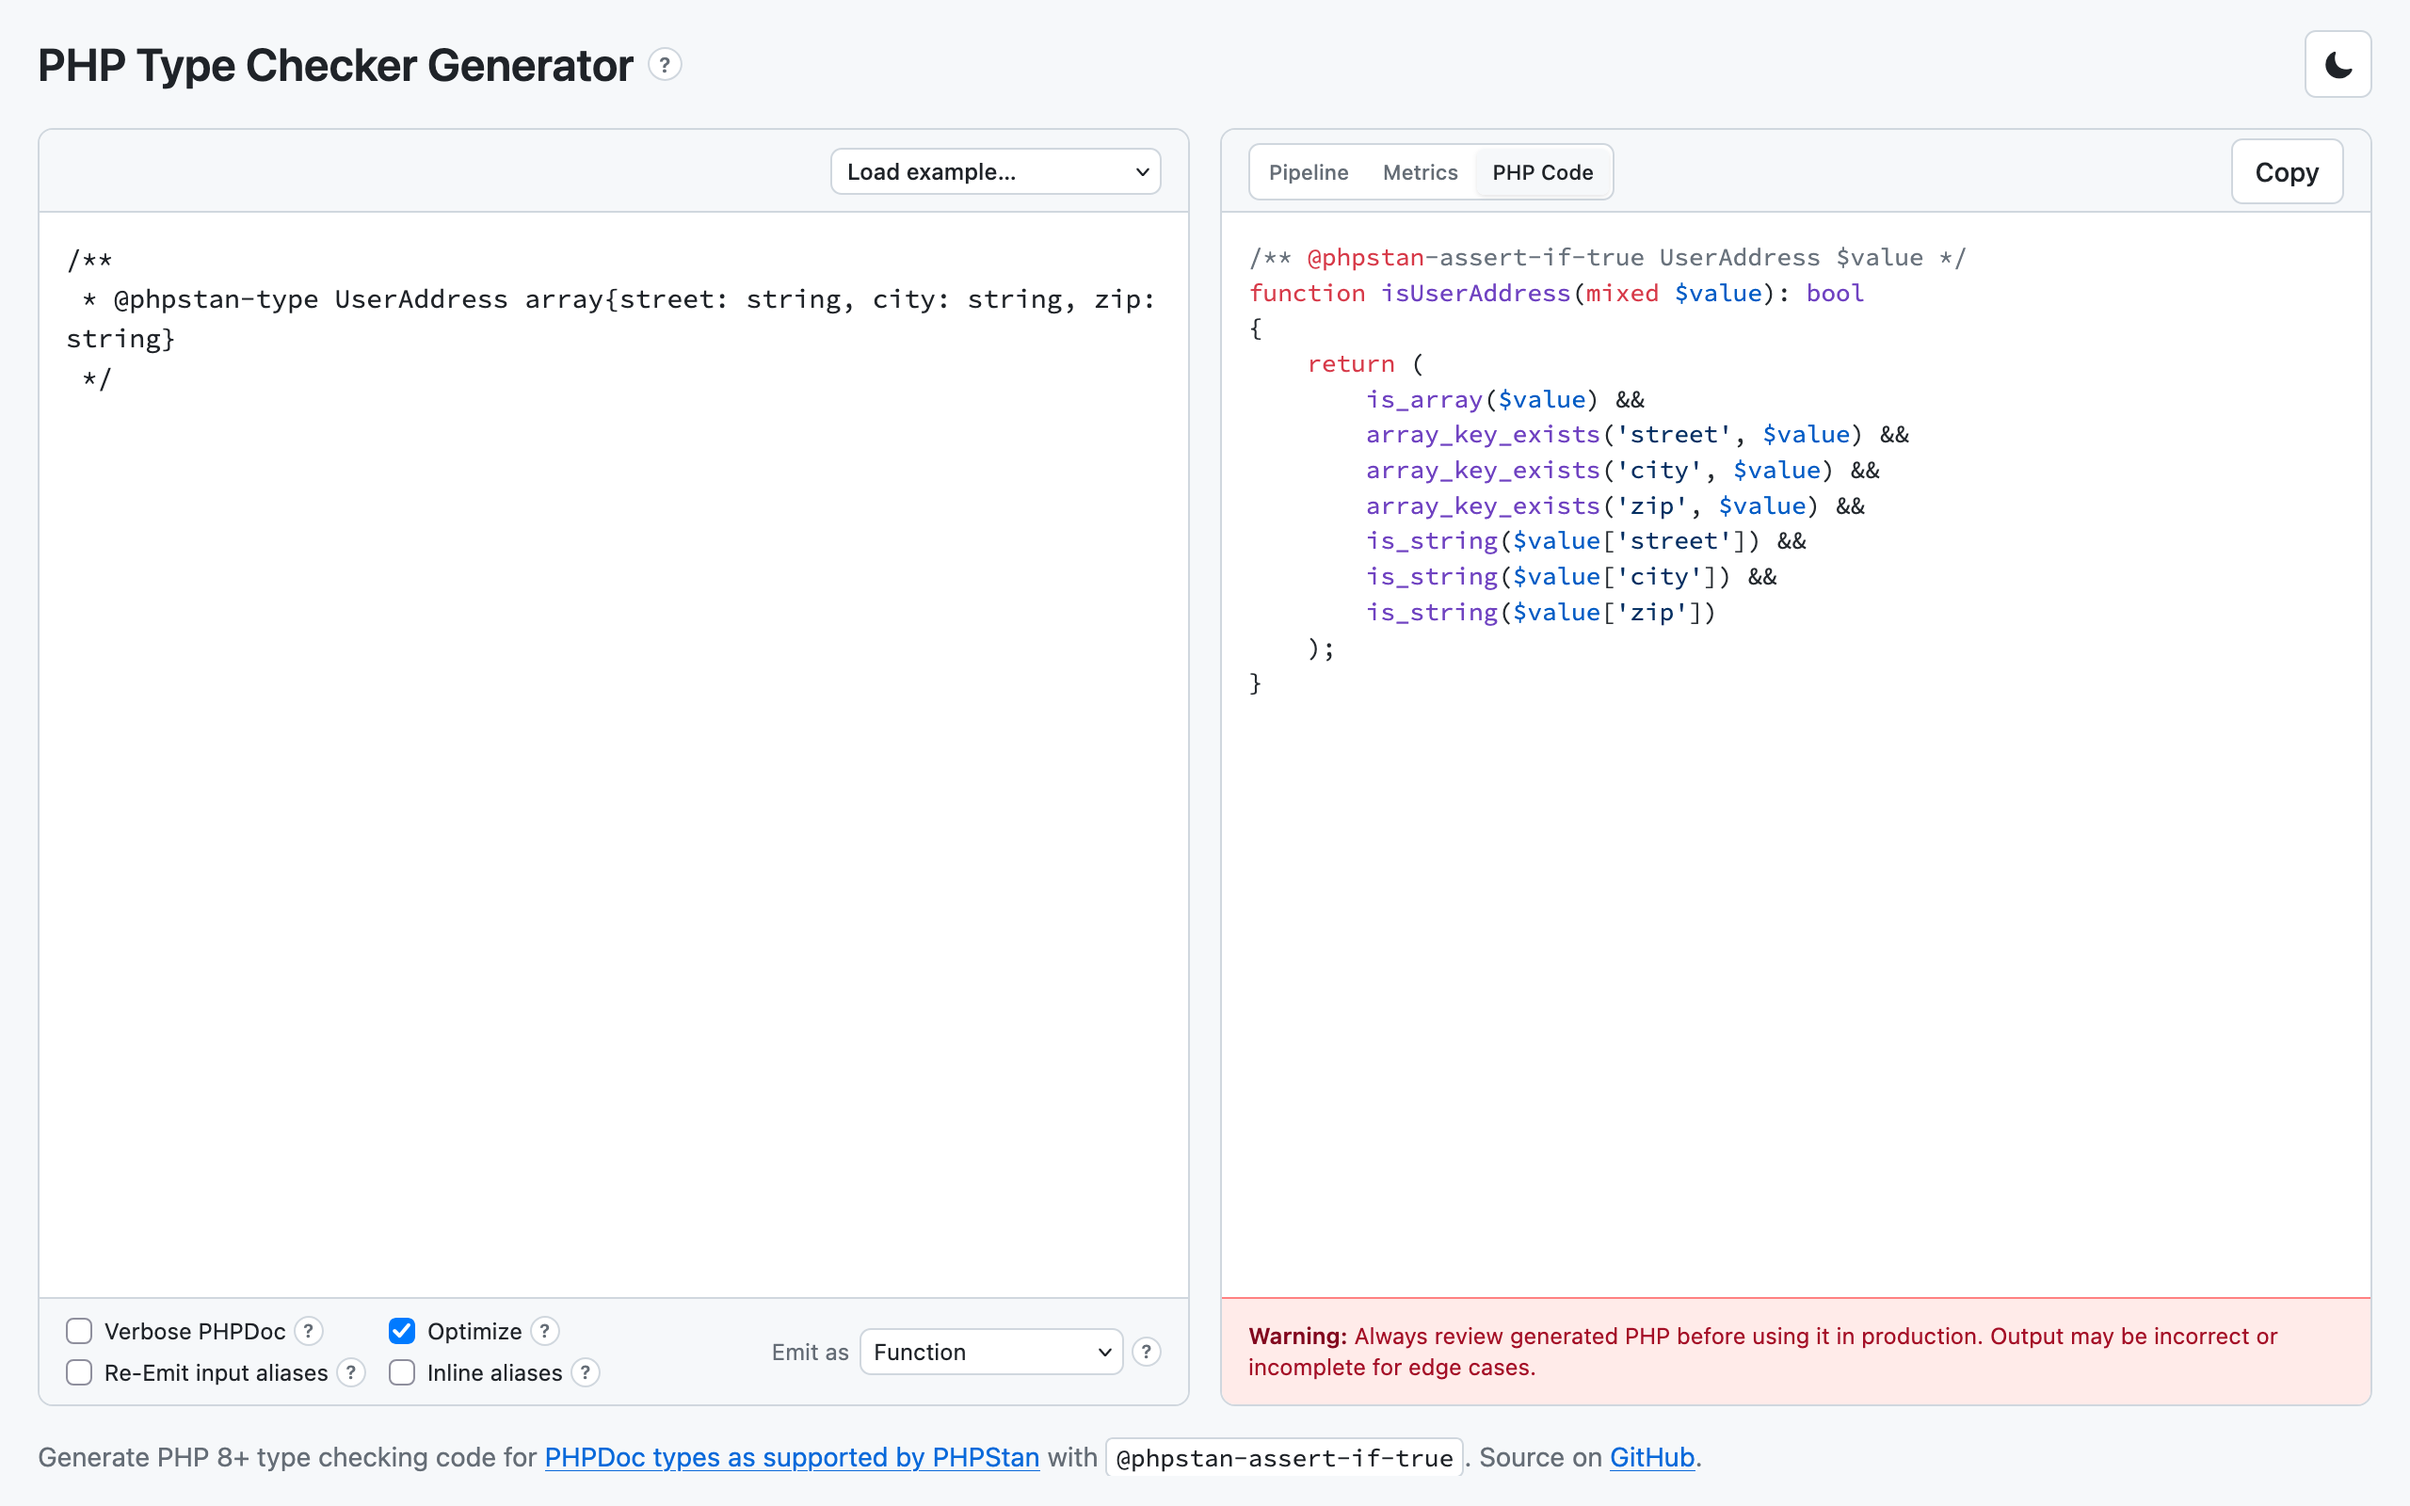
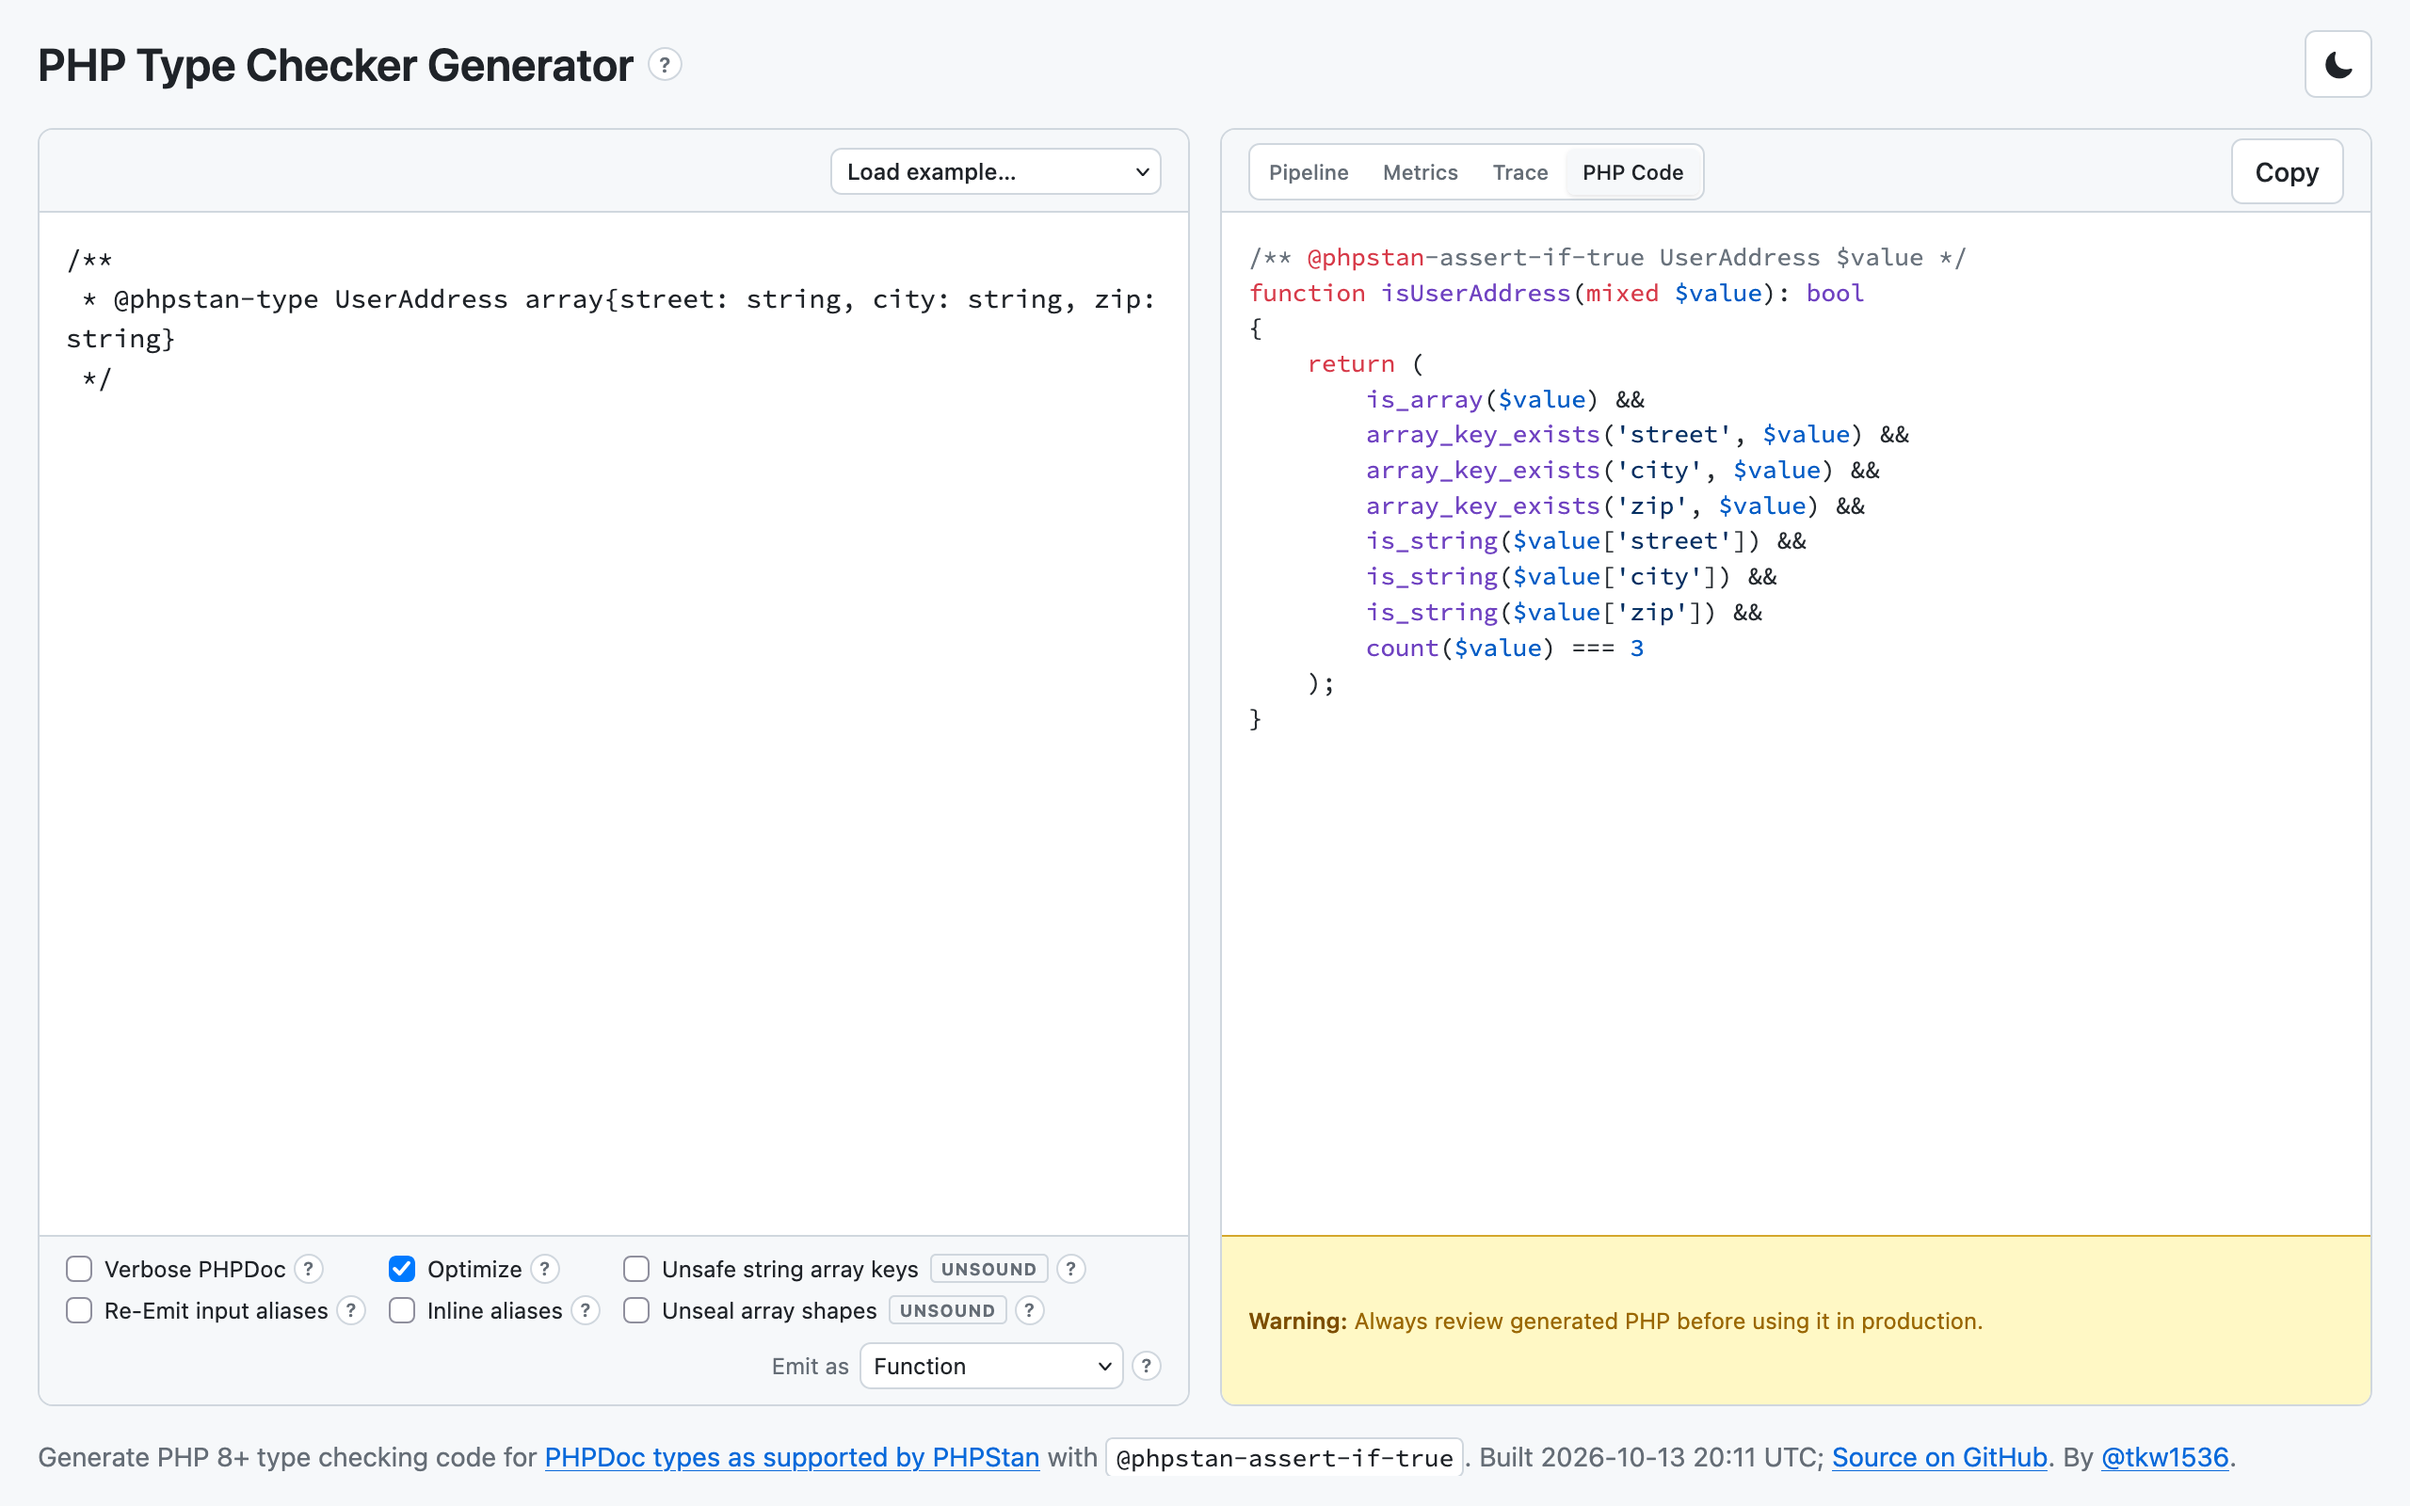
Update README and screenshot

diff --git a/README.md b/README.md
@@ -8,7 +8,7 @@ Parse [PHPDoc types as supported by PHPStan](https://phpstan.org/writing-php-cod
 
 **[Open the live demo](https://check.guys.wtf)** — paste a PHPDoc `@phpstan-type` block (or plain types) and copy the generated PHP.
 
-![Light-theme UI: PHPDoc @phpstan-type UserAddress input on the left with generate options; Pipeline / Metrics / PHP Code tabs on the right with the generated isUserAddress checker](docs/ui.png)
+![Light-theme UI: PHPDoc @phpstan-type UserAddress input on the left with generate options; Pipeline / Metrics / Trace / PHP Code tabs on the right with the generated isUserAddress checker; footer with build time and GitHub credit](docs/ui.png)
 
 ## Features
 
@@ -276,7 +276,7 @@ return TRUE;
 | Nested arrays                | Nested `foreach`                                                                                                               |
 | Parameterized `iterable<…>`  | Not generated (foreach would not be side-effect-free)                                                                          |
 
-The UI option **Unsafe string array keys** (URL fragment `unsafekeys=1`) rewrites `array` / `non-empty-array` keys that are exactly `string` to `int|non-decimal-int-string` for runtime checks only, matching PHPStan [`reportUnsafeArrayStringKeyCasting: detect`](https://phpstan.org/blog/why-array-string-keys-are-not-type-safe).
+The UI option **Unsafe string array keys** rewrites `array` / `non-empty-array` keys that are exactly `string` to `int|non-decimal-int-string` for runtime checks only, matching PHPStan [`reportUnsafeArrayStringKeyCasting: detect`](https://phpstan.org/blog/why-array-string-keys-are-not-type-safe).
 Off (default) keeps `string` key checks — the same runtime accept set as PHPStan default / `prevent` for real PHP arrays (decimal-int-string keys are already cast to `int` before `foreach`).
 `@phpstan-assert-if-true` still uses the input type as written.
 Lists, value-only `array<T>`, shape rests, and other key types are unchanged.
@@ -287,7 +287,10 @@ Shape field keys that are decimal-int-strings (e.g. `'123'`) are always emitted 
 Shapes represent non-homogenous containers.
 These are typically represented by existence check, followed by a type check on each property.
 Array and list shapes are sealed by default (extra keys are rejected); trailing `...` makes them unsealed, matching [PHPStan 2.2](https://phpstan.org/blog/phpstan-2-2-unsealed-array-shapes-safer-array-keys).
-The UI option **Unseal array shapes** (URL fragment `unseal=1`) treats shapes without `...` as unsealed for runtime checks only (matching older PHPStan behavior); `@phpstan-assert-if-true` still uses the input type as written.
+
+The UI option **Unseal array shapes** treats shapes without `...` as unsealed for runtime checks only (matching older PHPStan behavior).
+`@phpstan-assert-if-true` still uses the input type as written - producing potentially unsound code.
+
 Object shapes stay unsealed (no extra-property rejection; `...` is not supported on objects).
 Collection field loops (`foreach`) are emitted after all key and non-loop field guards so Optimize can group them.
 For example for `array{name: string, age: int}` (all keys required), the sealed check is `count($value) === 2` after the field checks:
